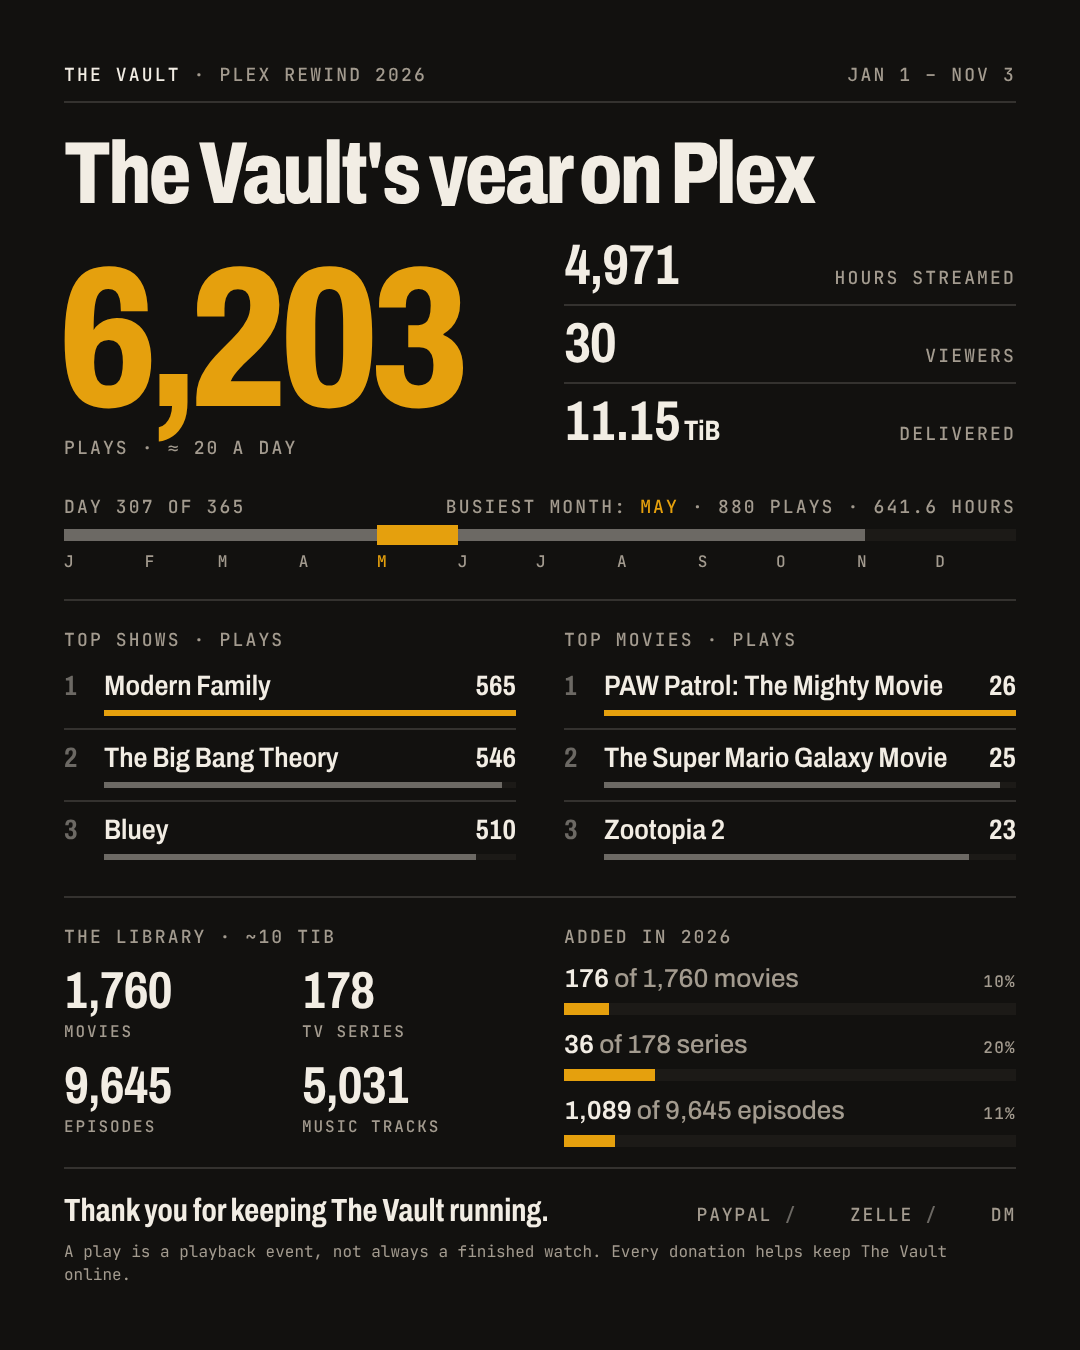
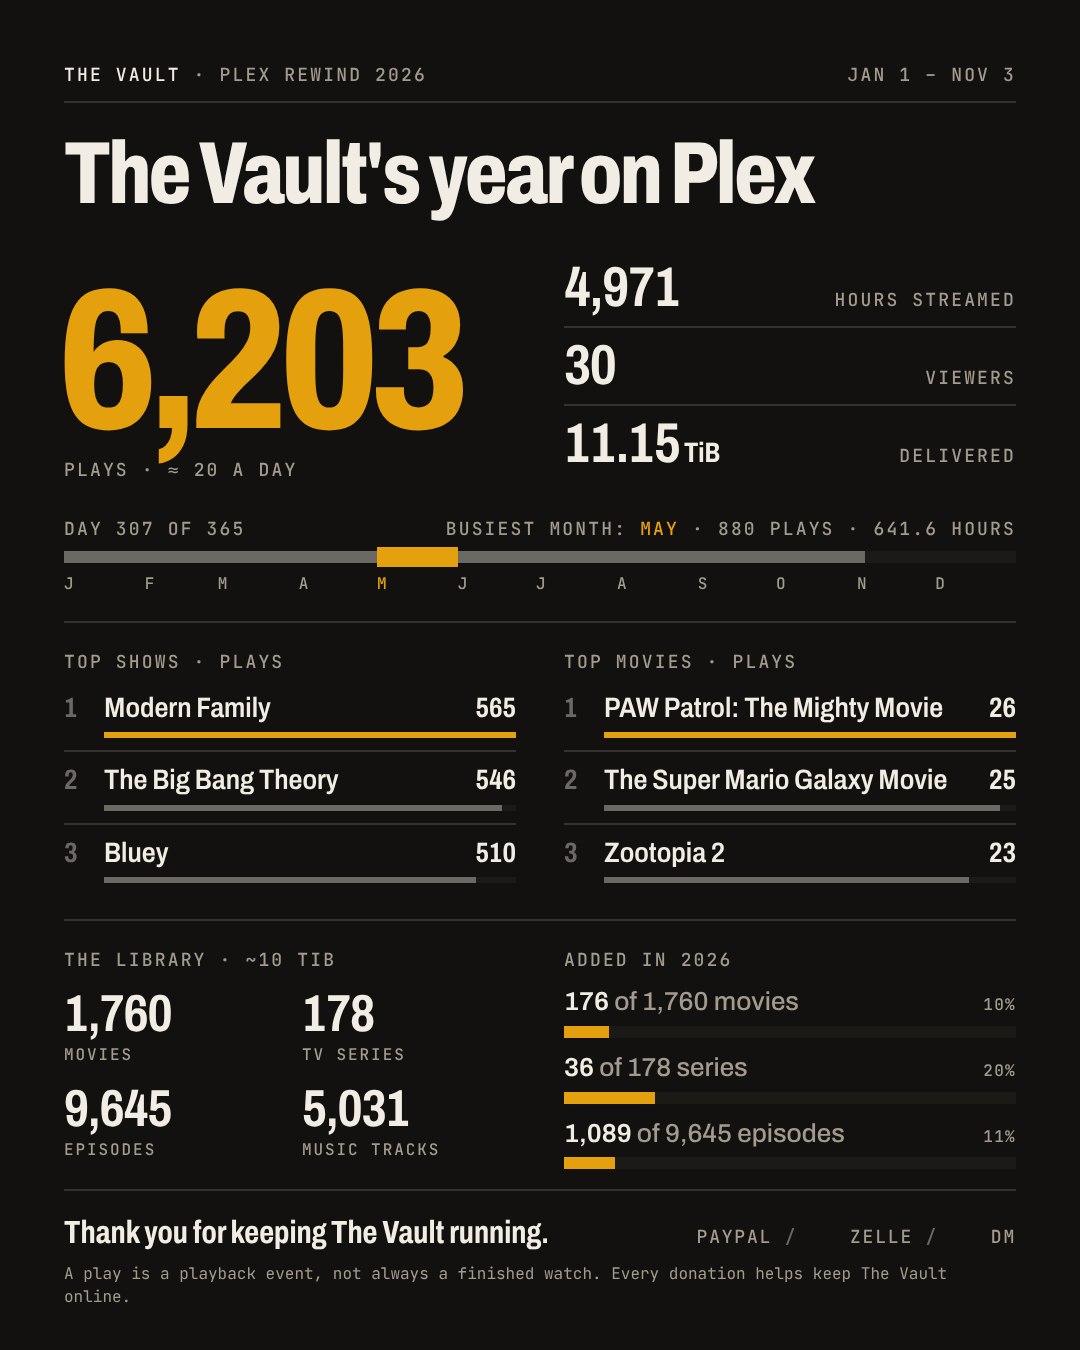
Fix squashed headlines and clipped title descenders; refresh images
- Elements that hide overflow were being shrunk by their flex column
  (the infographic headline rendered 71px tall instead of 93px), cutting
  off descenders. They no longer shrink.
- Ellipsized show and movie titles get room for descenders too
  (broadsheet and marquee were a few pixels short).
- Test: no overflow-hidden element in any style may clip vertically,
  for short and long server names.
- Regenerated every README image with docs/make_images.py.

Claude-Session: https://claude.ai/code/session_0128Uxx4oRpU2LraC8KmrTRe

diff --git a/studio/runtime/base.css b/studio/runtime/base.css
@@ -43,7 +43,8 @@ body.preview .slide { display: flex !important; margin: 0 0 40px; }
 .i-thanks { --fit: 1; min-width: 0; white-space: nowrap; overflow: hidden; }
 .i-methods { flex-shrink: 0; }
 /* overflow: hidden would also cut descenders on tight display lines: give them room without moving anything. */
-.slate-name, .s-info .title, .i-thanks, .slate-name b { padding-bottom: .16em; margin-bottom: -.16em; }
+.slate-name, .s-info .title, .i-thanks, .slate-name b { padding-bottom: .16em; margin-bottom: -.16em; flex-shrink: 0; }
+.row .nm { padding-bottom: .14em; margin-bottom: -.14em; }  /* titles are ellipsized, so they clip too */
 
 /* Decoration slots are off unless a style turns them on. */
 .deco { display: none; }

diff --git a/tests/test_studio.py b/tests/test_studio.py
@@ -108,7 +108,7 @@ class RenderTests(unittest.TestCase):
             self.assertTrue((Path(tmp) / "rel-out" / "infographic.png").is_file())
 
     def test_long_server_name_fits(self):
-        """Shrink-to-fit keeps any server name inside its box in every style."""
+        """Any server name fits its box, and no text is cut off, in every style."""
         vm = model.build(EXAMPLE, "Movie Night at the Garcia House", "donation")
         for style in engine.list_styles():
             with self.subTest(style=style["id"]), tempfile.TemporaryDirectory() as tmp:
@@ -122,6 +122,12 @@ class RenderTests(unittest.TestCase):
                             .filter((e) => e.scrollWidth > e.clientWidth + 1 && getComputedStyle(e).overflow === 'hidden')
                             .map((e) => e.className || e.tagName)""", sid)
                         self.assertEqual(clipped, [], sid)
+                        # nothing that hides overflow may cut glyphs off vertically (descenders, squashed boxes)
+                        squashed = session.page.evaluate("""(id) => [...document.querySelectorAll(`.slide[data-slide="${id}"] *`)]
+                            .filter((e) => !e.closest('.deco') && getComputedStyle(e).overflow === 'hidden'
+                                    && e.children.length < 3 && e.scrollHeight > e.clientHeight + 1)
+                            .map((e) => e.className || e.tagName)""", sid)
+                        self.assertEqual(squashed, [], sid)
                 finally:
                     session.close()
 
